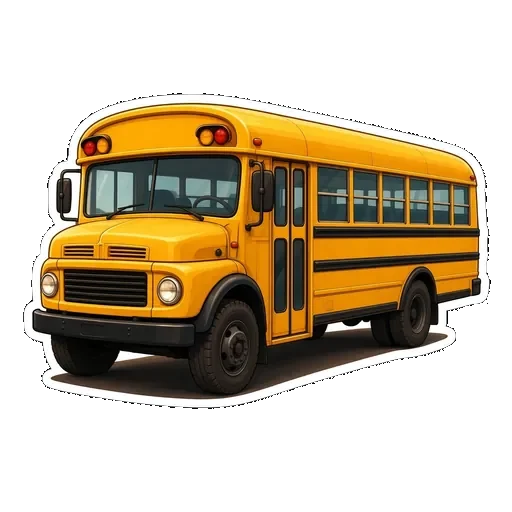
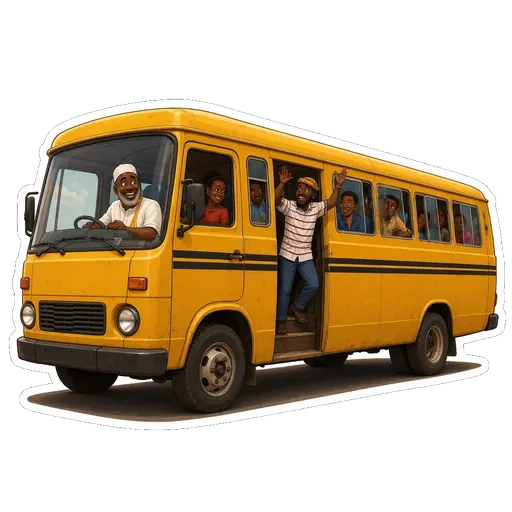
Replace three Lagos stickers with the redrawn art.
Molue, Lekki Toll Gate, and Tafawa Balewa Square keep their slugs. The album asks for each sticker with the build stamp so a phone does not keep the previous picture.

diff --git a/public/rewards-ui.js b/public/rewards-ui.js
@@ -42,7 +42,7 @@
   };
   function art(id) {
     const file = STICKER_FILE[id] || id;
-    return '<span class="st-art"><img alt="" width="512" height="512" decoding="async" loading="lazy" src="/stickers/' + file + '.webp"></span>';
+    return '<span class="st-art"><img alt="" width="512" height="512" decoding="async" loading="lazy" src="/stickers/' + file + '.webp?v=__KOLOPOLY_BUILD__"></span>';
   }
   let lastRewards = null;
   function paintShelf(rewards) {
